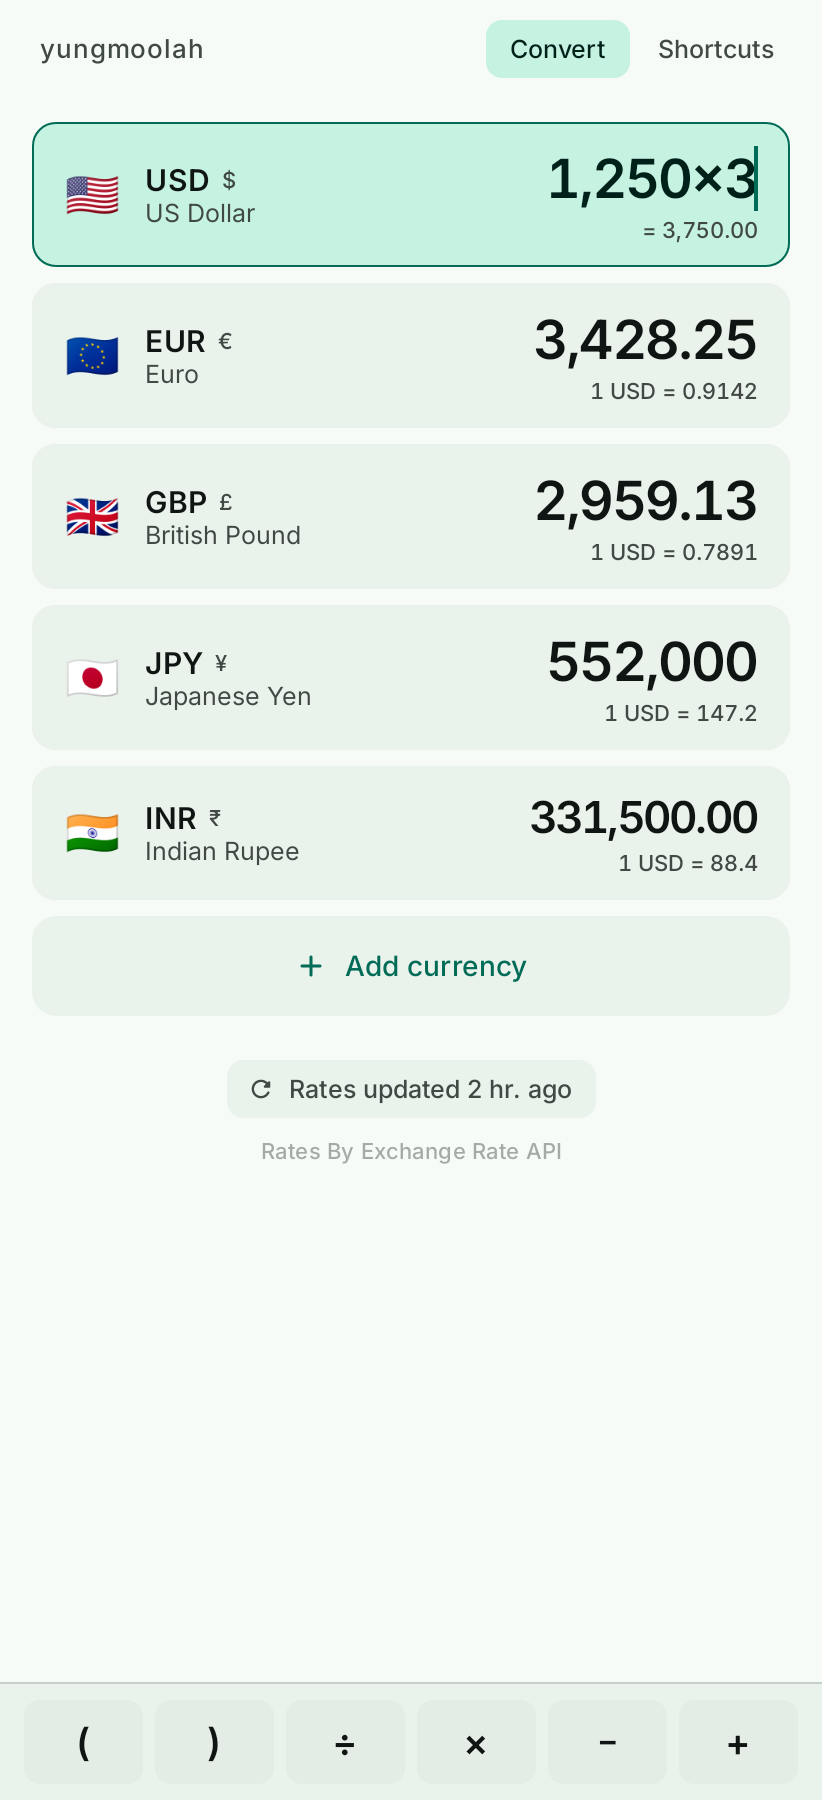
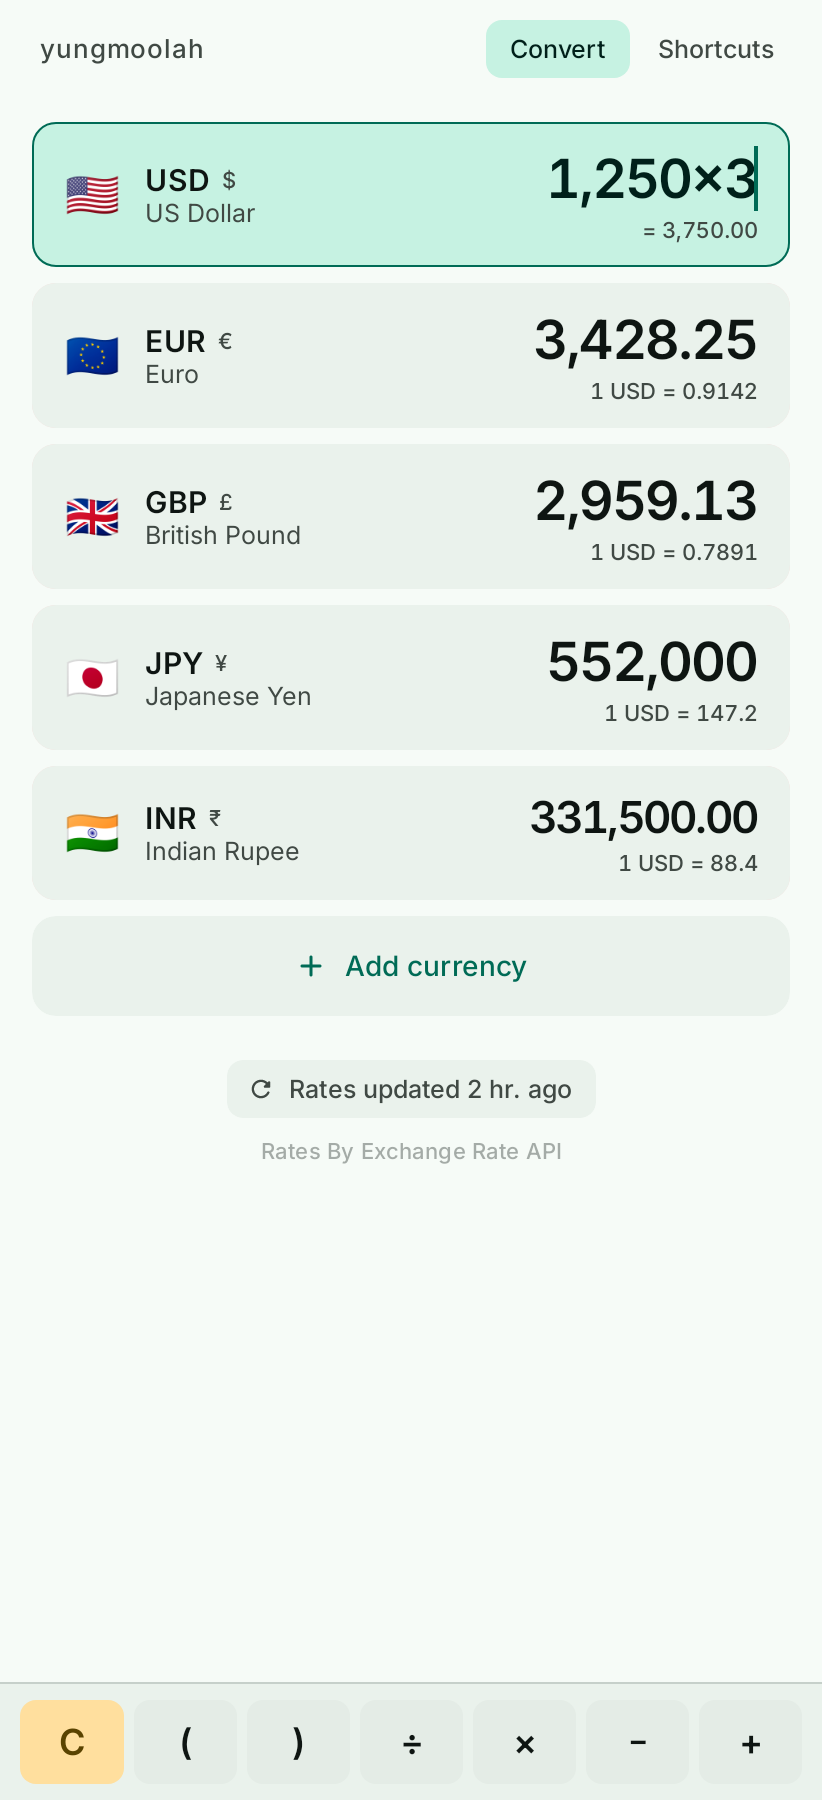
Add a clear key; stop relying on a repeatCount that never arrives
Holding delete did nothing, and the reason was a bad assumption. The field
checked KeyEvent.repeatCount for a repeated backspace, but keyboards that
synthesise their own repeat — which is most of them — build a fresh event per
press and report every one as a first press, so the check could never be true.
That path is gone.

The rate detector is now the only inference, and it was too strict to fire
either: it wanted four deletions no more than 120ms apart, while a held key
starts slower than that and accelerates, so a short amount emptied before the
run was ever recognised. Three deletions inside 260ms is around six a second,
past deliberate tapping and well inside auto-repeat.

A held key belongs to the keyboard, not to the app, and there is no way to
observe it directly — some keyboards send key events, some delete through the
input connection. So clearing no longer depends on getting that guess right: the
arithmetic bar carries a C key, which is one tap, always works, and lives on the
bar rather than back on the rows.

167 JVM tests, all passing.

Claude-Session: https://claude.ai/code/session_013xRT27hRqMnywQAQuheEvj

diff --git a/app/src/main/java/com/yungmoolah/converter/ui/OperatorBar.kt b/app/src/main/java/com/yungmoolah/converter/ui/OperatorBar.kt
@@ -17,6 +17,7 @@ import androidx.compose.runtime.Composable
 import androidx.compose.ui.Alignment
 import androidx.compose.ui.Modifier
 import androidx.compose.ui.draw.clip
+import androidx.compose.ui.graphics.Color
 import androidx.compose.ui.semantics.contentDescription
 import androidx.compose.ui.semantics.semantics
 import androidx.compose.ui.unit.dp
@@ -27,27 +28,49 @@ import com.yungmoolah.converter.domain.TIMES
 import com.yungmoolah.converter.ui.theme.AmountTextStyle
 import com.yungmoolah.converter.ui.theme.MoolahShapes
 
-/** Every key on the bar, in the order they appear. */
-private val KEYS = listOf('(', ')', DIVIDE, TIMES, MINUS, '+')
+/** The arithmetic keys, in the order they appear. */
+private val OPERATOR_KEYS = listOf('(', ')', DIVIDE, TIMES, MINUS, '+')
 
 /**
- * The arithmetic keys, sat above the number pad.
+ * The keys the number pad does not have, sat above it while a row is being edited.
  *
- * The system's decimal keyboard has no operators on it, so a sum has to be typed
- * from somewhere: this bar appears while a row is being edited and each key is
- * appended to the entry.
+ * The system's decimal keyboard carries no operators, so a sum has to be typed from
+ * somewhere. It also gives the amount a clear key: holding the keyboard's own delete
+ * is detected where it can be (see `ConverterViewModel.registerDeletion`), but that
+ * is a guess about a key the app does not own, and clearing an amount should not
+ * depend on a guess.
  */
 @Composable
-fun OperatorBar(onKey: (Char) -> Unit, modifier: Modifier = Modifier) {
-    Surface(color = MaterialTheme.colorScheme.surfaceContainer, modifier = modifier.fillMaxWidth()) {
+fun OperatorBar(
+    onKey: (Char) -> Unit,
+    onClear: () -> Unit,
+    modifier: Modifier = Modifier,
+) {
+    val colors = MaterialTheme.colorScheme
+    Surface(color = colors.surfaceContainer, modifier = modifier.fillMaxWidth()) {
         Column {
-            HorizontalDivider(color = MaterialTheme.colorScheme.outlineVariant)
+            HorizontalDivider(color = colors.outlineVariant)
             Row(
-                horizontalArrangement = Arrangement.spacedBy(6.dp),
-                modifier = Modifier.padding(horizontal = 12.dp, vertical = 8.dp),
+                horizontalArrangement = Arrangement.spacedBy(5.dp),
+                modifier = Modifier.padding(horizontal = 10.dp, vertical = 8.dp),
             ) {
-                for (key in KEYS) {
-                    OperatorKey(key = key, onClick = { onKey(key) }, modifier = Modifier.weight(1f))
+                BarKey(
+                    label = "C",
+                    description = "Clear amount",
+                    background = colors.tertiaryContainer,
+                    foreground = colors.onTertiaryContainer,
+                    onClick = onClear,
+                    modifier = Modifier.weight(1f),
+                )
+                for (key in OPERATOR_KEYS) {
+                    BarKey(
+                        label = key.toString(),
+                        description = describe(key),
+                        background = colors.surfaceContainerHigh,
+                        foreground = colors.onSurface,
+                        onClick = { onKey(key) },
+                        modifier = Modifier.weight(1f),
+                    )
                 }
             }
         }
@@ -55,20 +78,27 @@ fun OperatorBar(onKey: (Char) -> Unit, modifier: Modifier = Modifier) {
 }
 
 @Composable
-private fun OperatorKey(key: Char, onClick: () -> Unit, modifier: Modifier = Modifier) {
+private fun BarKey(
+    label: String,
+    description: String,
+    background: Color,
+    foreground: Color,
+    onClick: () -> Unit,
+    modifier: Modifier = Modifier,
+) {
     Box(
         contentAlignment = Alignment.Center,
         modifier = modifier
             .height(42.dp)
             .clip(MoolahShapes.Chip)
-            .background(MaterialTheme.colorScheme.surfaceContainerHigh)
+            .background(background)
             .clickable(onClick = onClick)
-            .semantics { contentDescription = describe(key) },
+            .semantics { contentDescription = description },
     ) {
         Text(
-            text = key.toString(),
-            style = AmountTextStyle.copy(fontSize = 19.sp, letterSpacing = 0.sp),
-            color = MaterialTheme.colorScheme.onSurface,
+            text = label,
+            style = AmountTextStyle.copy(fontSize = 18.sp, letterSpacing = 0.sp),
+            color = foreground,
         )
     }
 }

diff --git a/app/src/test/java/com/yungmoolah/converter/ConverterScreenTest.kt b/app/src/test/java/com/yungmoolah/converter/ConverterScreenTest.kt
@@ -1,8 +1,6 @@
 package com.yungmoolah.converter
 
 import androidx.compose.runtime.Composable
-import android.view.KeyEvent as NativeKeyEvent
-import androidx.compose.ui.input.key.KeyEvent
 import androidx.compose.ui.test.assertCountEquals
 import androidx.compose.ui.test.assertIsFocused
 import androidx.compose.ui.test.assertIsNotFocused
@@ -13,7 +11,6 @@ import androidx.compose.ui.test.onAllNodesWithText
 import androidx.compose.ui.test.onNodeWithContentDescription
 import androidx.compose.ui.test.onNodeWithText
 import androidx.compose.ui.test.performClick
-import androidx.compose.ui.test.performKeyPress
 import androidx.compose.ui.test.performTextReplacement
 import com.yungmoolah.converter.data.CURRENCY_BY_CODE
 import com.yungmoolah.converter.ui.MoolahScreen
@@ -36,15 +33,6 @@ class ConverterScreenTest {
 
     @get:Rule
     val compose = createComposeRule()
-
-    /** A delete key press that is a repeat, i.e. the key is being held down. */
-    private fun repeatedDelete() = KeyEvent(
-        NativeKeyEvent(0L, 0L, NativeKeyEvent.ACTION_DOWN, NativeKeyEvent.KEYCODE_DEL, 1),
-    )
-
-    private fun singleDelete() = KeyEvent(
-        NativeKeyEvent(0L, 0L, NativeKeyEvent.ACTION_DOWN, NativeKeyEvent.KEYCODE_DEL, 0),
-    )
 
     private fun row(code: String, amount: String, active: Boolean = false, rate: String? = null) =
         CurrencyRowUi(
@@ -126,32 +114,27 @@ class ConverterScreenTest {
     }
 
     @Test
-    fun `holding the delete key clears the row being edited`() {
+    fun `the clear key wipes the row being edited`() {
         var cleared: String? = null
         compose.setContent { MoolahTheme { MoolahScreen(state, onClear = { cleared = it }) } }
 
         compose.onNodeWithContentDescription("US Dollar amount").performClick()
-        compose.onNodeWithContentDescription("US Dollar amount").performKeyPress(repeatedDelete())
+        compose.onNodeWithContentDescription("Clear amount").performClick()
 
         assertEquals("USD", cleared)
     }
 
     @Test
-    fun `a single tap of delete is left to the keyboard`() {
-        var cleared: String? = null
-        compose.setContent { MoolahTheme { MoolahScreen(state, onClear = { cleared = it }) } }
-
-        compose.onNodeWithContentDescription("US Dollar amount").performClick()
-        compose.onNodeWithContentDescription("US Dollar amount").performKeyPress(singleDelete())
-
-        // One press deletes a digit through the normal text path, not a wipe.
-        assertEquals(null, cleared)
-    }
-
-    @Test
-    fun `the clear button is gone`() {
+    fun `the clear key is on the arithmetic bar, not on the rows`() {
         compose.setContent { MoolahTheme { MoolahScreen(state) } }
+
+        // Nothing on the rows themselves until a row is being edited.
         compose.onAllNodesWithContentDescription("Clear amount").assertCountEquals(0)
+
+        compose.onNodeWithContentDescription("Euro amount").performClick()
+
+        // Exactly one, on the bar, however many rows there are.
+        compose.onAllNodesWithContentDescription("Clear amount").assertCountEquals(1)
     }
 
     @Test

diff --git a/app/src/main/java/com/yungmoolah/converter/ui/CurrencyRow.kt b/app/src/main/java/com/yungmoolah/converter/ui/CurrencyRow.kt
@@ -37,11 +37,6 @@ import androidx.compose.ui.focus.focusRequester
 import androidx.compose.ui.focus.onFocusChanged
 import androidx.compose.ui.graphics.Color
 import androidx.compose.ui.graphics.SolidColor
-import androidx.compose.ui.input.key.Key
-import androidx.compose.ui.input.key.KeyEventType
-import androidx.compose.ui.input.key.key
-import androidx.compose.ui.input.key.onPreviewKeyEvent
-import androidx.compose.ui.input.key.type
 import androidx.compose.ui.semantics.contentDescription
 import androidx.compose.ui.semantics.semantics
 import androidx.compose.ui.text.TextRange
@@ -70,7 +65,6 @@ fun CurrencyRow(
     row: CurrencyRowUi,
     onAmountChanged: (String) -> Unit,
     onFocusChanged: (Boolean) -> Unit,
-    onClear: () -> Unit,
     modifier: Modifier = Modifier,
     dragHandle: Modifier = Modifier,
     isDragging: Boolean = false,
@@ -158,7 +152,6 @@ fun CurrencyRow(
                     focusRequester = focusRequester,
                     onValueChange = onAmountChanged,
                     onFocusChanged = onFocusChanged,
-                    onClear = onClear,
                 )
                 row.rateLabel?.let { label ->
                     Spacer(Modifier.height(3.dp))
@@ -191,7 +184,6 @@ private fun AmountField(
     focusRequester: FocusRequester,
     onValueChange: (String) -> Unit,
     onFocusChanged: (Boolean) -> Unit,
-    onClear: () -> Unit,
 ) {
     val colors = MaterialTheme.colorScheme
     var field by remember { mutableStateOf(TextFieldValue(text, TextRange(text.length))) }
@@ -222,17 +214,7 @@ private fun AmountField(
             .fillMaxWidth()
             .focusRequester(focusRequester)
             .onFocusChanged { onFocusChanged(it.isFocused) }
-            .semantics { this.contentDescription = contentDescription }
-            // Holding the keyboard's delete key wipes the whole amount rather than
-            // walking back through it a digit at a time. The first *repeat* of the
-            // key press is the signal, and consuming it stops the per-digit deletes.
-            .onPreviewKeyEvent { event ->
-                val heldDown = event.type == KeyEventType.KeyDown &&
-                    event.key == Key.Backspace &&
-                    event.nativeKeyEvent.repeatCount > 0
-                if (heldDown) onClear()
-                heldDown
-            },
+            .semantics { this.contentDescription = contentDescription },
         decorationBox = { inner ->
             Box(contentAlignment = Alignment.CenterEnd) {
                 if (text.isEmpty()) {

diff --git a/app/src/main/java/com/yungmoolah/converter/ui/ConverterViewModel.kt b/app/src/main/java/com/yungmoolah/converter/ui/ConverterViewModel.kt
@@ -158,14 +158,18 @@ class ConverterViewModel(
     }
 
     /**
-     * Notes a single-character deletion and reports whether the delete key is being
-     * held down.
+     * Notes a deletion and reports whether the delete key is being held down.
      *
-     * A backstop for the keyboards that delete through the input connection rather
-     * than by sending key events, where the field never sees a repeated key press.
-     * What it can always see is the *rate*: a person tapping delete cannot produce
-     * four deletions [FAST_DELETION_WINDOW_MS] apart, but auto-repeat does nothing
-     * else.
+     * There is no reliable way to observe a long press on a key the app does not
+     * own. Keyboards deliver a held backspace in whichever way they like — some
+     * send key events, some delete through the input connection, and the ones that
+     * synthesise their own repeats report every press as a first press — so none of
+     * that can be trusted. What is always visible is the *rate* of deletions:
+     * auto-repeat produces a run no thumb can, whichever route it arrives by.
+     *
+     * The thresholds are deliberately forgiving. A short amount empties within a
+     * few presses, so waiting for a long run means the field is already clear by
+     * the time the run is recognised.
      */
     private fun registerDeletion(): Boolean {
         val now = nowMillis()
@@ -395,9 +399,13 @@ class ConverterViewModel(
     }
 
     private companion object {
-        /** Auto-repeat fires roughly every 50ms; no thumb manages four taps this fast. */
-        const val FAST_DELETION_WINDOW_MS = 120L
-        const val FAST_DELETIONS_TO_CLEAR = 4
+        /**
+         * A held key repeats every 50-300ms depending on the keyboard, accelerating
+         * as it goes. Three deletions inside this window is around six a second,
+         * which is beyond deliberate tapping and well inside auto-repeat.
+         */
+        const val FAST_DELETION_WINDOW_MS = 260L
+        const val FAST_DELETIONS_TO_CLEAR = 3
     }
 
     class Factory(private val repository: RatesRepository) : ViewModelProvider.Factory {

diff --git a/app/src/test/java/com/yungmoolah/converter/ConverterViewModelTest.kt b/app/src/test/java/com/yungmoolah/converter/ConverterViewModelTest.kt
@@ -303,8 +303,8 @@ class ConverterViewModelTest {
         advanceUntilIdle()
 
         // Auto-repeat: deletions arriving far faster than a thumb can tap.
-        repeat(4) {
-            clock += 50
+        repeat(3) {
+            clock += 60
             backspace(state)
             advanceUntilIdle()
         }
@@ -322,7 +322,7 @@ class ConverterViewModelTest {
             advanceUntilIdle()
 
             repeat(4) {
-                clock += 300
+                clock += 450
                 backspace(state)
                 advanceUntilIdle()
             }
@@ -331,7 +331,7 @@ class ConverterViewModelTest {
         }
 
     @Test
-    fun `a burst of deletions has to be a run to count as a held key`() =
+    fun `a pause breaks the run, so deliberate taps are never a hold`() =
         runTest(dispatcher) {
             server.enqueue(MockResponse().setBody(ratesBody()))
             val state = collectState()
@@ -339,13 +339,12 @@ class ConverterViewModelTest {
             viewModel.onAmountChanged("USD", "123456")
             advanceUntilIdle()
 
-            // Three quick deletions, then a pause, then three more: never four in a
-            // row, so this stays six single-digit deletions rather than a clear.
-            repeat(3) { clock += 40; backspace(state); advanceUntilIdle() }
+            // Two quick deletions, a pause, two more: the run never reaches three.
+            repeat(2) { clock += 60; backspace(state); advanceUntilIdle() }
             clock += 900
-            repeat(3) { clock += 40; backspace(state); advanceUntilIdle() }
+            repeat(2) { clock += 60; backspace(state); advanceUntilIdle() }
 
-            assertEquals("", state().rows.first { it.code == "USD" }.amountText)
+            assertEquals("12", state().rows.first { it.code == "USD" }.amountText)
         }
 
     @Test

diff --git a/app/src/main/java/com/yungmoolah/converter/ui/ConverterScreen.kt b/app/src/main/java/com/yungmoolah/converter/ui/ConverterScreen.kt
@@ -119,6 +119,7 @@ fun MoolahScreen(
                         val shown = state.rows.firstOrNull { it.isActive }?.amountText.orEmpty()
                         onAmountChanged(state.activeCode, shown + key)
                     },
+                    onClear = { onClear(state.activeCode) },
                     // Above the keyboard while it is up, above the navigation bar
                     // when it is not: imePadding consumes the keyboard inset, so
                     // navigationBarsPadding only adds anything once it is gone.
@@ -190,7 +191,6 @@ fun MoolahScreen(
                                         onRowFocused(row.code)
                                     }
                                 },
-                                onClear = { onClear(row.code) },
                                 dragHandle = Modifier.longPressDraggableHandle(),
                                 isDragging = isDragging,
                             )

diff --git a/README.md b/README.md
@@ -26,8 +26,9 @@ working offline.
   hand.
 - **Pin, reorder, remove.** Add from a searchable list of every supported currency,
   swipe a row away (with undo), long-press and drag one to reorder.
-- **Hold delete to clear.** Holding the keyboard's delete key wipes the whole
-  amount rather than walking back through it a digit at a time.
+- **Clear in one tap** with the `C` key on the arithmetic bar. Holding the
+  keyboard's own delete key clears the amount too, where the keyboard makes that
+  visible — see below.
 - **Grouped as you type.** The row being edited gains thousands separators
   keystroke by keystroke, and the caret stays at the end wherever you tap.
 - **Tap anywhere else** to drop the highlight and put the keyboard away.
@@ -120,10 +121,15 @@ A few decisions worth knowing:
   recipe for a three-step one half a percent closer, which is the wrong trade for
   arithmetic done from memory. Multiplying by 0.83 is never suggested, however
   close to the rate it lands.
-- **Holding delete is detected two ways.** The field watches for a repeated
-  backspace key press, which is what most keyboards send; for the ones that delete
-  through the input connection instead, the ViewModel watches the *rate* of
-  single-character deletions, since auto-repeat produces bursts no thumb can.
+- **A held delete key cannot be observed directly.** The key belongs to the
+  keyboard, not the app, and keyboards deliver a hold however they like: some send
+  key events, some delete through the input connection, and the ones that
+  synthesise their own repeats report every press as a first press, so a
+  `repeatCount` check never fires. What is always visible is the *rate* of
+  deletions, and `registerDeletion` clears the amount on a run faster than
+  deliberate tapping. Because that is still inference about someone else's key, the
+  `C` key on the arithmetic bar is the guaranteed route, and clearing an amount
+  does not depend on a guess.
 - **Rates are stored relative to one base.** Converting between two arbitrary
   currencies is then the ratio of their two rates, which is what lets a single
   edited amount drive every row without touching the network.
@@ -148,7 +154,7 @@ A few decisions worth knowing:
 
 ## Tests
 
-`./gradlew testDebugUnitTest` runs 168 JVM tests — no device or emulator needed,
+`./gradlew testDebugUnitTest` runs 167 JVM tests — no device or emulator needed,
 since the Compose and Android-dependent cases run under Robolectric.
 
 | Suite | Covers |
